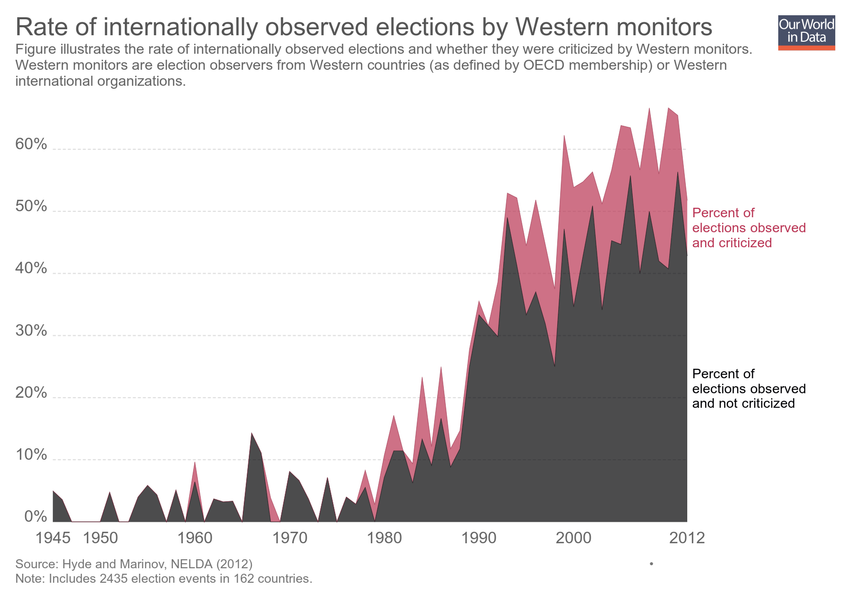
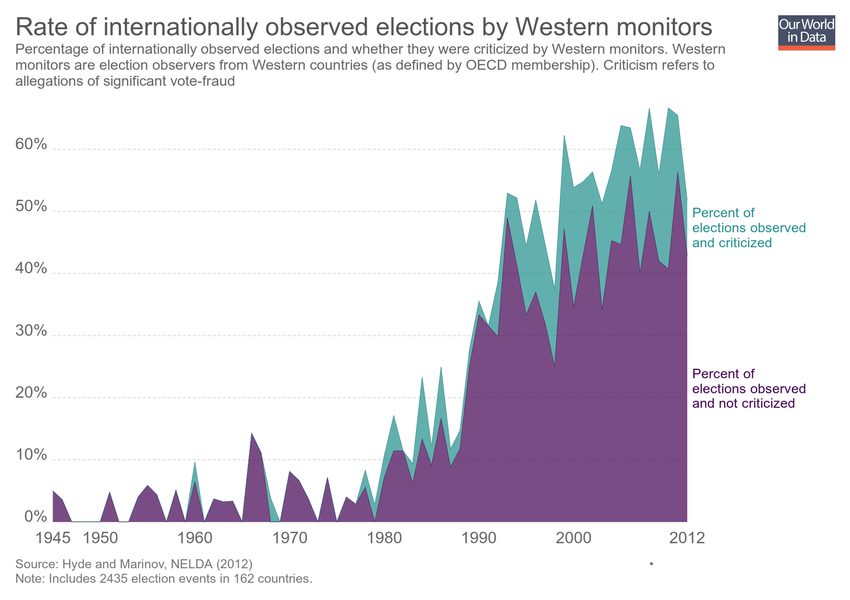
Updating chart rate-of-internationally-observed-elections-nelda

Changed region(s): [[0.1224, 0.18, 0.9482, 0.87], [0.0, 0.06, 0.8871, 0.15], [0.0612, 0.81, 0.0918, 0.87]]

diff --git a/grapher/rate-of-internationally-observed-elections-nelda.html b/grapher/rate-of-internationally-observed-elections-nelda.html
@@ -1,4 +1,4 @@
-<!doctype html><html><head><meta name="viewport" content="width=device-width, initial-scale=1" /><title>Rate of internationally observed elections by Western monitors - Our World in Data</title><meta name="description" content="Figure illustrates the rate of internationally observed elections and whether they were criticized by Western monitors. Western monitors are election observers from Western countries (as defined by OECD membership) or Western international organizations." /><link rel="canonical" href="https://ourworldindata.org/grapher/rate-of-internationally-observed-elections-nelda" /><meta property="fb:app_id" content="1149943818390250" /><meta property="og:url" content="https://ourworldindata.org/grapher/rate-of-internationally-observed-elections-nelda" /><meta property="og:title" content="Rate of internationally observed elections by Western monitors" /><meta property="og:description" content="Figure illustrates the rate of internationally observed elections and whether they were criticized by Western monitors. Western monitors are election observers from Western countries (as defined by OECD membership) or Western international organizations." /><meta property="og:image" content="https://ourworldindata.org/grapher/exports/rate-of-internationally-observed-elections-nelda.png?v=4" /><meta property="og:image:width" content="850" /><meta property="og:image:height" content="600" /><meta property="og:site_name" content="Our World in Data" /><meta name="twitter:card" content="summary_large_image" /><meta name="twitter:site" content="@OurWorldInData" /><meta name="twitter:creator" content="@OurWorldInData" /><meta name="twitter:title" content="Rate of internationally observed elections by Western monitors" /><meta name="twitter:description" content="Figure illustrates the rate of internationally observed elections and whether they were criticized by Western monitors. Western monitors are election observers from Western countries (as defined by OECD membership) or Western international organizations." /><meta name="twitter:image" content="https://ourworldindata.org/grapher/exports/rate-of-internationally-observed-elections-nelda.png?v=4" /><style>
+<!doctype html><html><head><meta name="viewport" content="width=device-width, initial-scale=1" /><title>Rate of internationally observed elections by Western monitors - Our World in Data</title><meta name="description" content="Percentage of internationally observed elections and whether they were criticized by Western monitors. Western monitors are election observers from Western countries (as defined by OECD membership). Criticism refers to allegations of significant vote-fraud" /><link rel="canonical" href="https://ourworldindata.org/grapher/rate-of-internationally-observed-elections-nelda" /><meta property="fb:app_id" content="1149943818390250" /><meta property="og:url" content="https://ourworldindata.org/grapher/rate-of-internationally-observed-elections-nelda" /><meta property="og:title" content="Rate of internationally observed elections by Western monitors" /><meta property="og:description" content="Percentage of internationally observed elections and whether they were criticized by Western monitors. Western monitors are election observers from Western countries (as defined by OECD membership). Criticism refers to allegations of significant vote-fraud" /><meta property="og:image" content="https://ourworldindata.org/grapher/exports/rate-of-internationally-observed-elections-nelda.png?v=5" /><meta property="og:image:width" content="850" /><meta property="og:image:height" content="600" /><meta property="og:site_name" content="Our World in Data" /><meta name="twitter:card" content="summary_large_image" /><meta name="twitter:site" content="@OurWorldInData" /><meta name="twitter:creator" content="@OurWorldInData" /><meta name="twitter:title" content="Rate of internationally observed elections by Western monitors" /><meta name="twitter:description" content="Percentage of internationally observed elections and whether they were criticized by Western monitors. Western monitors are election observers from Western countries (as defined by OECD membership). Criticism refers to allegations of significant vote-fraud" /><meta name="twitter:image" content="https://ourworldindata.org/grapher/exports/rate-of-internationally-observed-elections-nelda.png?v=5" /><style>
         html, body {
             height: 100%;
             margin: 0;
@@ -20,8 +20,8 @@
         }
     </style><noscript><style>
                     figure { display: none !important; }
-                </style></noscript><link rel="stylesheet" href="https://ourworldindata.org/grapher/assets/commons.bundle.a7ce280024c736539280.css" /><link rel="preload" href="/grapher/data/variables/97382+97383.json?v=4" as="fetch" crossorigin /></head><body class="singleChart"><figure data-grapher-src="/grapher/rate-of-internationally-observed-elections-nelda"></figure><noscript id="fallback"><img src="/grapher/exports/rate-of-internationally-observed-elections-nelda.svg" /><p>Interactive visualization requires JavaScript</p></noscript><script src="https://cdn.polyfill.io/v2/polyfill.min.js?features=es6,fetch"></script><script src="https://ourworldindata.org/grapher/assets/commons.bundle.a7ce280024c736539280.js"></script><script src="https://ourworldindata.org/grapher/assets/charts.bundle.dcf65b68eddaba4c6a58.js"></script><script>
-        var jsonConfig = {"id":2590,"map":{"projection":"World","colorSchemeLabels":[],"colorSchemeValues":[],"colorSchemeMinValue":0,"customNumericColors":[],"customCategoryColors":{},"customCategoryLabels":{},"customHiddenCategories":{}},"tab":"chart","note":"Includes 2435 election events in 162 countries.","slug":"rate-of-internationally-observed-elections-nelda","type":"StackedArea","title":"Rate of internationally observed elections by Western monitors","xAxis":{"scaleType":"linear"},"yAxis":{"min":0,"scaleType":"linear"},"version":4,"subtitle":"Figure illustrates the rate of internationally observed elections and whether they were criticized by Western monitors. Western monitors are election observers from Western countries (as defined by OECD membership) or Western international organizations.","hasMapTab":false,"stackMode":"absolute","dimensions":[{"display":{"name":"Percent of elections observed and criticized"},"property":"y","variableId":97382},{"display":{"name":"Percent of elections observed and not criticized"},"property":"y","variableId":97383}],"hasChartTab":true,"isPublished":true,"selectedData":[{"index":0,"entityId":355},{"index":1,"entityId":355}],"addCountryMode":"change-country","baseColorScheme":"Inferno","hideRelativeToggle":true,"hideTitleAnnotation":true};
+                </style></noscript><link rel="stylesheet" href="https://ourworldindata.org/grapher/assets/commons.bundle.a7ce280024c736539280.css" /><link rel="preload" href="/grapher/data/variables/97382+97383.json?v=5" as="fetch" crossorigin /></head><body class="singleChart"><figure data-grapher-src="/grapher/rate-of-internationally-observed-elections-nelda"></figure><noscript id="fallback"><img src="/grapher/exports/rate-of-internationally-observed-elections-nelda.svg" /><p>Interactive visualization requires JavaScript</p></noscript><script src="https://cdn.polyfill.io/v2/polyfill.min.js?features=es6,fetch"></script><script src="https://ourworldindata.org/grapher/assets/commons.bundle.a7ce280024c736539280.js"></script><script src="https://ourworldindata.org/grapher/assets/charts.bundle.dcf65b68eddaba4c6a58.js"></script><script>
+        var jsonConfig = {"id":2590,"map":{"projection":"World","colorSchemeLabels":[],"colorSchemeValues":[],"colorSchemeMinValue":0,"customNumericColors":[],"customCategoryColors":{},"customCategoryLabels":{},"customHiddenCategories":{}},"tab":"chart","note":"Includes 2435 election events in 162 countries.","slug":"rate-of-internationally-observed-elections-nelda","type":"StackedArea","title":"Rate of internationally observed elections by Western monitors","xAxis":{"scaleType":"linear"},"yAxis":{"min":0,"scaleType":"linear"},"version":5,"subtitle":"Percentage of internationally observed elections and whether they were criticized by Western monitors. Western monitors are election observers from Western countries (as defined by OECD membership). Criticism refers to allegations of significant vote-fraud","hasMapTab":false,"stackMode":"absolute","dimensions":[{"display":{"name":"Percent of elections observed and criticized"},"property":"y","variableId":97382},{"display":{"name":"Percent of elections observed and not criticized"},"property":"y","variableId":97383}],"hasChartTab":true,"isPublished":true,"selectedData":[{"index":0,"entityId":355},{"index":1,"entityId":355}],"addCountryMode":"change-country","baseColorScheme":"Viridis","hideRelativeToggle":true,"hideTitleAnnotation":true};
         var figure = document.getElementsByTagName("figure")[0];
         try {
             window.App = {};
